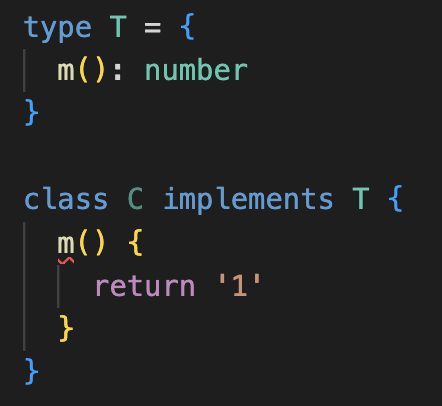
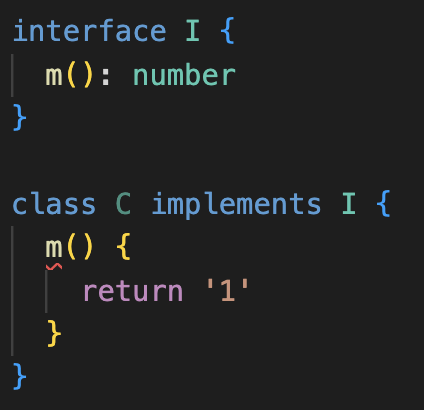
[UPDATE][TS] class implements

diff --git a/Language/TypeScript/src/code/tutorial/03_interface_class/index.ts b/Language/TypeScript/src/code/tutorial/03_interface_class/index.ts
@@ -28,12 +28,12 @@
 
 // 2. class implements
 ;(() => {
-  type T = {
+  interface I {
     m1(): void
     m2(): number
   }
 
-  class C implements T {
+  class C implements I {
     m1() {
       return '1'
     }

diff --git a/Language/TypeScript/note/base.md b/Language/TypeScript/note/base.md
@@ -909,14 +909,15 @@
 
       - 建議 implements `interface` 而不是 `type`
 
-      - 實作 method 的 type 必須與 type 相符
+      - 實作 method 的 type 必須與定義的 type 相符
 
       <div class="imgBox" >
         <img src="../src/image/base/class_implements_diffReturnType.png" alt="class_implements_diffReturnType.png" />
       </div>
 
       - 實作未如 type 定義回傳 `void`，不會報錯
-      - REF: ["void return" in interface doesn't trigger error in "implementation"]
+
+        > REF: ["void return" in interface doesn't trigger error in "implementation"]
 
       <div class="imgBox" >
         <img src="../src/image/base/class_implements_void.png" alt="class_implements_void.png" />
